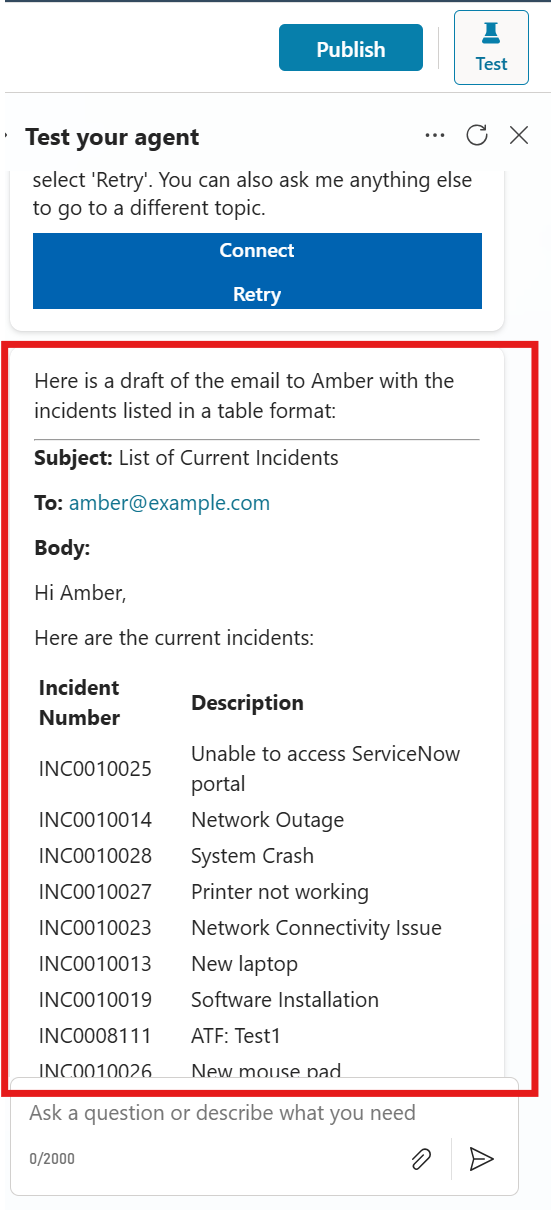
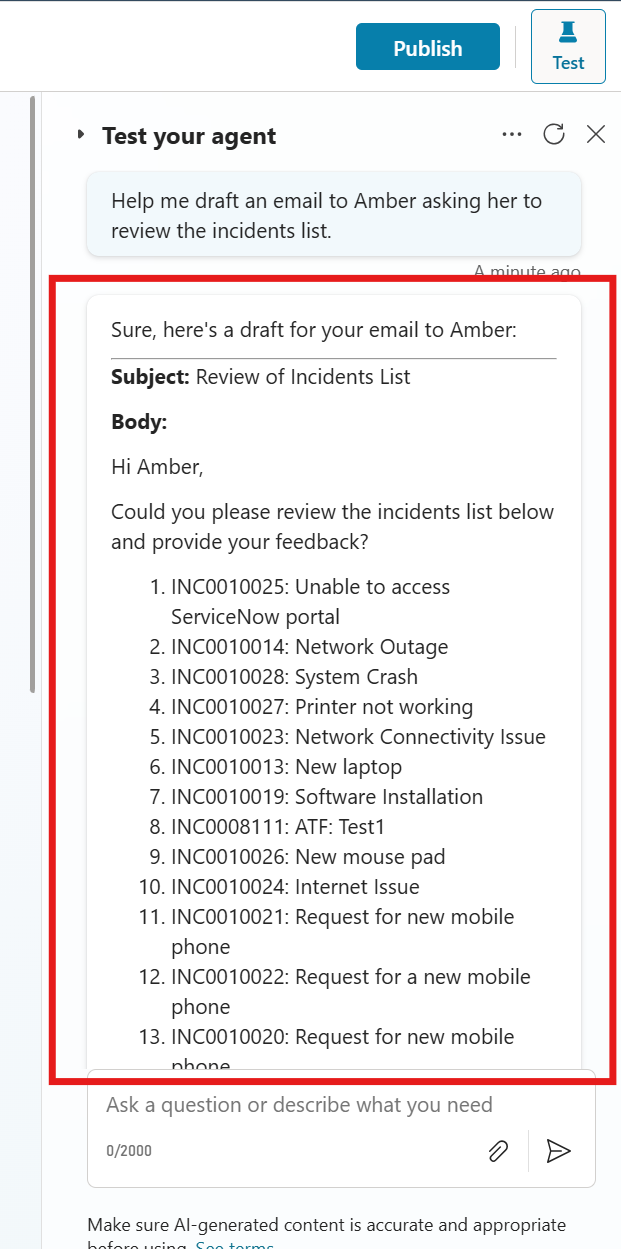
outlook

Changed region(s): [[0.0, 0.0, 1.0, 1.0]]

diff --git a/README.md b/README.md
@@ -63,7 +63,7 @@ One of the key benefits of declarative agents is their ability to provide consis
 
 **By creating a declarative agent, we don't have access to the full semantic index but just to the parts accessed via the graph connectors that were defined**. This is because declarative agents are designed to be specialists, focusing on specific tasks or domains. This allows the agent to access relevant enterprise data and improve its responses. Additionally, we can provide real-time information to the agent via actions or even through Internet web searches. This ensures the agent stays updated and relevant, delivering accurate and timely responses based on the most current data available.
 
-![](images/copilotstudiokanda.png)
+![](images/agentoverview.png)
 
 To achieve this specialization, we define a persona and provide detailed instructions for the agent, ensuring it can perform its designated functions effectively and consistently. By doing so, we create agents that are highly focused and capable of delivering precise and relevant responses based on their defined scope that meets specific business needs.
 
@@ -643,6 +643,30 @@ Connectors are powerful tools that enable you to connect different applications 
 
 ![](images/addaction6.png)
 
+#### Updating Agent Instructions for Email:
+
+To ensure our agent sends emails in the correct format, we need to update the instructions. Specifically, we need to include a step that instructs the agent to send all emails in rich text format. Additionally, if the email address domain is not specified and only the user alias is provided, the agent should assume the domain is @M365CPI69113837.onmicrosoft.com.
+
+1. In the Agent's Details section, click on the **Edit** button to modify the instructions.
+
+![](images/updateinstructions1.png)
+
+Add the following instructions at the end of the agent instructions:
+
+```plaintext
+7. **Emails instructions:**
+ a. Always ask the user to confirm before sending the email. Do not send it without user confirmation.
+ b. Use rich text format in the email body.
+ c. If the user provides only the recipient's alias, append the domain @M365CPI69113837.onmicrosoft.com to the alias. 
+d. When drafting an email, if the recipient's email address is not fully specified (i.e., only the alias is provided), automatically append the domain @M365CPI69113837.onmicrosoft.com to the alias.
+ e. Before asking for the email recipient, double-check if the email address is already provided in the chat history in the previous messages. 
+f. If all the above rules are satisfied, use the Office 365 Outlook connector to send the email.
+```
+
+2. Click on the **Save** button to update the agent with the email instructions.
+
+![](images/updateinstructions2.png)
+
 #### Testing the connector
 
 After setting up the email details, you can test the action to ensure it works correctly.
@@ -655,7 +679,7 @@ After setting up the email details, you can test the action to ensure it works c
 
 ![](images/testoutlook2.png)
 
-3. Ask the agent to draft an email to Amber with the incidents listed in a table format. Since this is the first time using the connector, you will be prompted to connect. Click on "Connect" to allow the connector to be used.
+3. Ask the agent to **Help me draft an email to amberr asking her to review the incidents list.**. Since this is the first time using the connector, you will be prompted to connect. Click on **Connect** to allow the connector to be used.
 
 ![](images/testoutlook3.png)
 
@@ -681,7 +705,20 @@ After setting up the email details, you can test the action to ensure it works c
 
 ![](images/testoutlook8.png)
 
+8. Instruct the agent to list the incidents in a table format:
+
+```plaintext
+please use the table format to show the incidents
+```
+
+![](images/testoutlook9.png)
+
 8. If everything looks good, ask the agent to send the email.
+
+```plaintex
+It looks good. Please send the email to her using rich text format.
+```
+![](images/testoutlook9.png)
 
 By following these steps, you can set up email communication using the Outlook connector, enabling seamless integration with your Outlook account and automating your email workflows.
 
